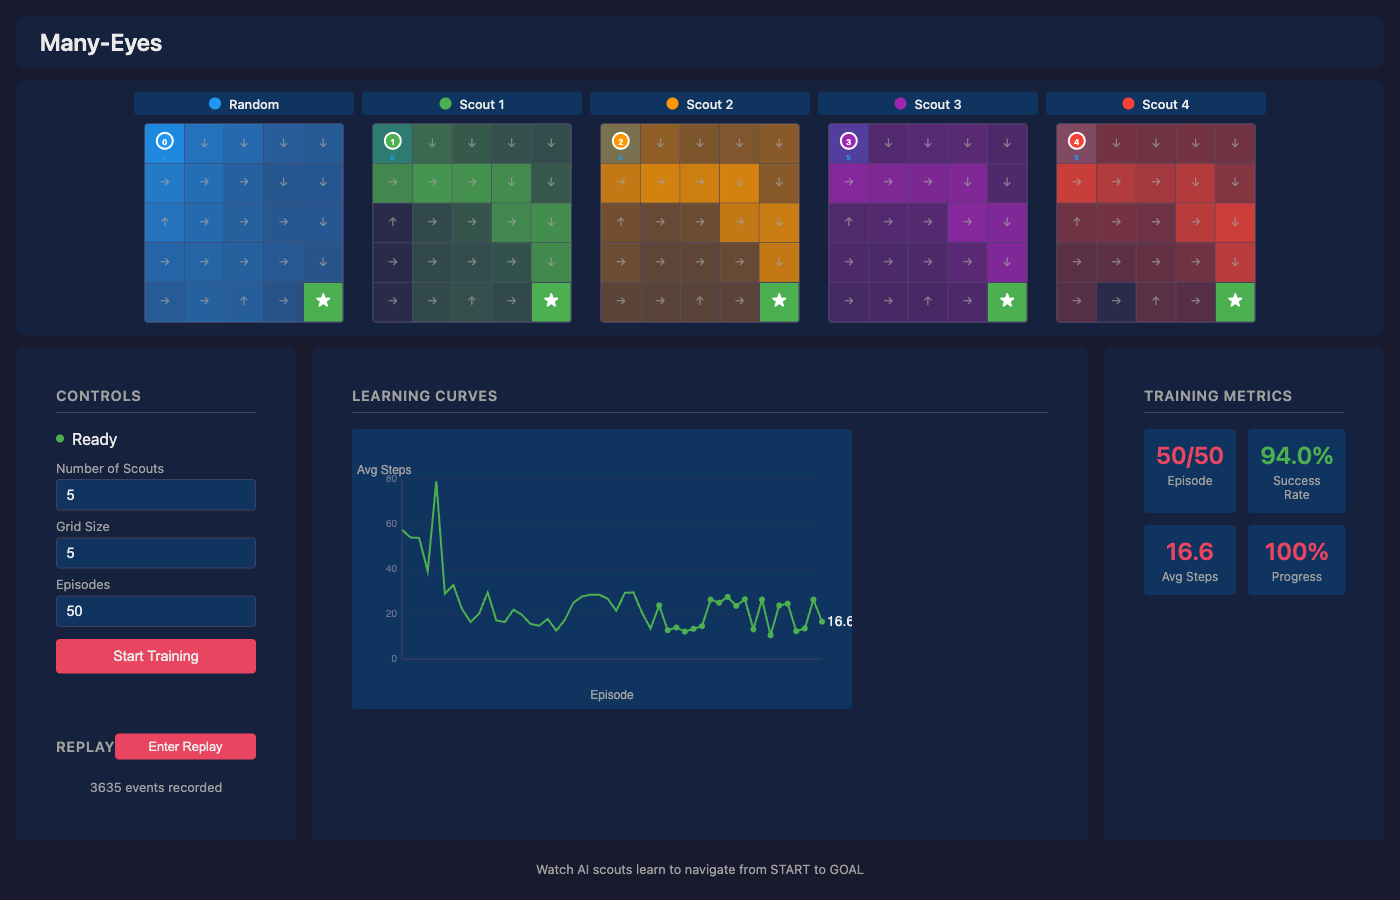
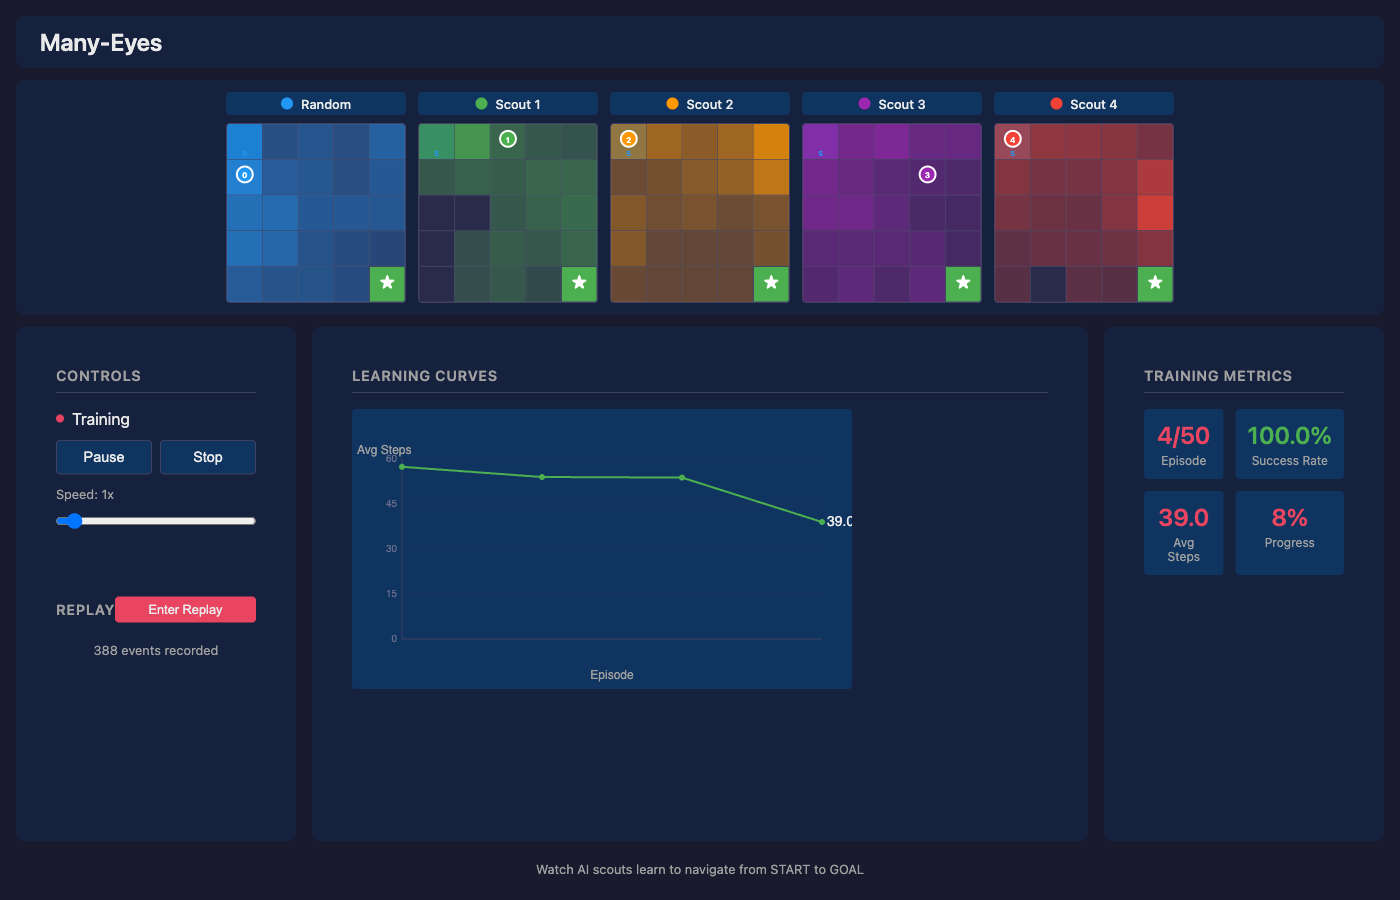
chore: fix clippy warnings and update screenshot
- Remove unused grid.rs and legend.rs components
- Remove unused imports (ScoutLegend, Grid)
- Use clamp() instead of max().min()
- Update screenshot with training in progress
- Update README timestamp

diff --git a/web/frontend/src/components/single_scout_grid.rs b/web/frontend/src/components/single_scout_grid.rs
@@ -42,7 +42,7 @@ pub fn single_scout_grid(props: &SingleScoutGridProps) -> Html {
     // Dynamic cell size based on both scouts and grid size
     // Target max grid width: ~180px for 5 scouts, ~140px for >5 scouts
     let max_grid_px = if props.n_scouts > 5 { 140 } else { 180 };
-    let cell_size = (max_grid_px / grid_size).max(16).min(40);
+    let cell_size = (max_grid_px / grid_size).clamp(16, 40);
     let svg_size = grid_size * cell_size;
     let scout_color = SCOUT_COLORS.get(props.scout_index % 10).unwrap_or(&"#888");
 

diff --git a/web/frontend/src/components/mod.rs b/web/frontend/src/components/mod.rs
@@ -1,19 +1,15 @@
 //! UI components for the visualization.
 
-mod grid;
 mod single_scout_grid;
 mod grid_panel;
 mod controls;
 mod metrics;
-mod legend;
 mod chart;
 mod replay;
 
-pub use grid::Grid;
 pub use single_scout_grid::SingleScoutGrid;
 pub use grid_panel::GridPanel;
 pub use controls::Controls;
 pub use metrics::Metrics;
-pub use legend::ScoutLegend;
 pub use chart::LearningChart;
 pub use replay::ReplayControls;

diff --git a/web/frontend/src/app.rs b/web/frontend/src/app.rs
@@ -3,7 +3,7 @@
 use std::rc::Rc;
 use yew::prelude::*;
 
-use crate::components::{Controls, GridPanel, LearningChart, Metrics, ScoutLegend, ReplayControls};
+use crate::components::{Controls, GridPanel, LearningChart, Metrics, ReplayControls};
 use crate::services::{use_websocket, WsState};
 use crate::types::{AppState, ClientCommand, ServerEvent, ScoutInfo, TrainingHistory, RecordedEvent, RecordedEventType};
 

diff --git a/README.md b/README.md
@@ -137,10 +137,13 @@ uv pip install -e ".[web]"
 
 A real-time web interface for visualizing multi-scout training:
 
-- **Live Grid**: Watch scouts explore the grid world
+![Web Visualization](images/screenshot.png?ts=1771975087772)
+
+- **Live Grid**: Watch scouts explore the grid world with policy arrows
 - **Training Controls**: Start/pause/stop with adjustable speed
-- **Metrics Panel**: Live success rate and loss tracking
+- **Metrics Panel**: Live success rate and episode tracking
 - **Learning Curves**: Animated training progress charts
+- **Replay Mode**: Step through recorded training at adjustable speed (0.1x - 10x)
 
 ```bash
 ./scripts/serve.sh   # Builds frontend and serves on http://localhost:3200
